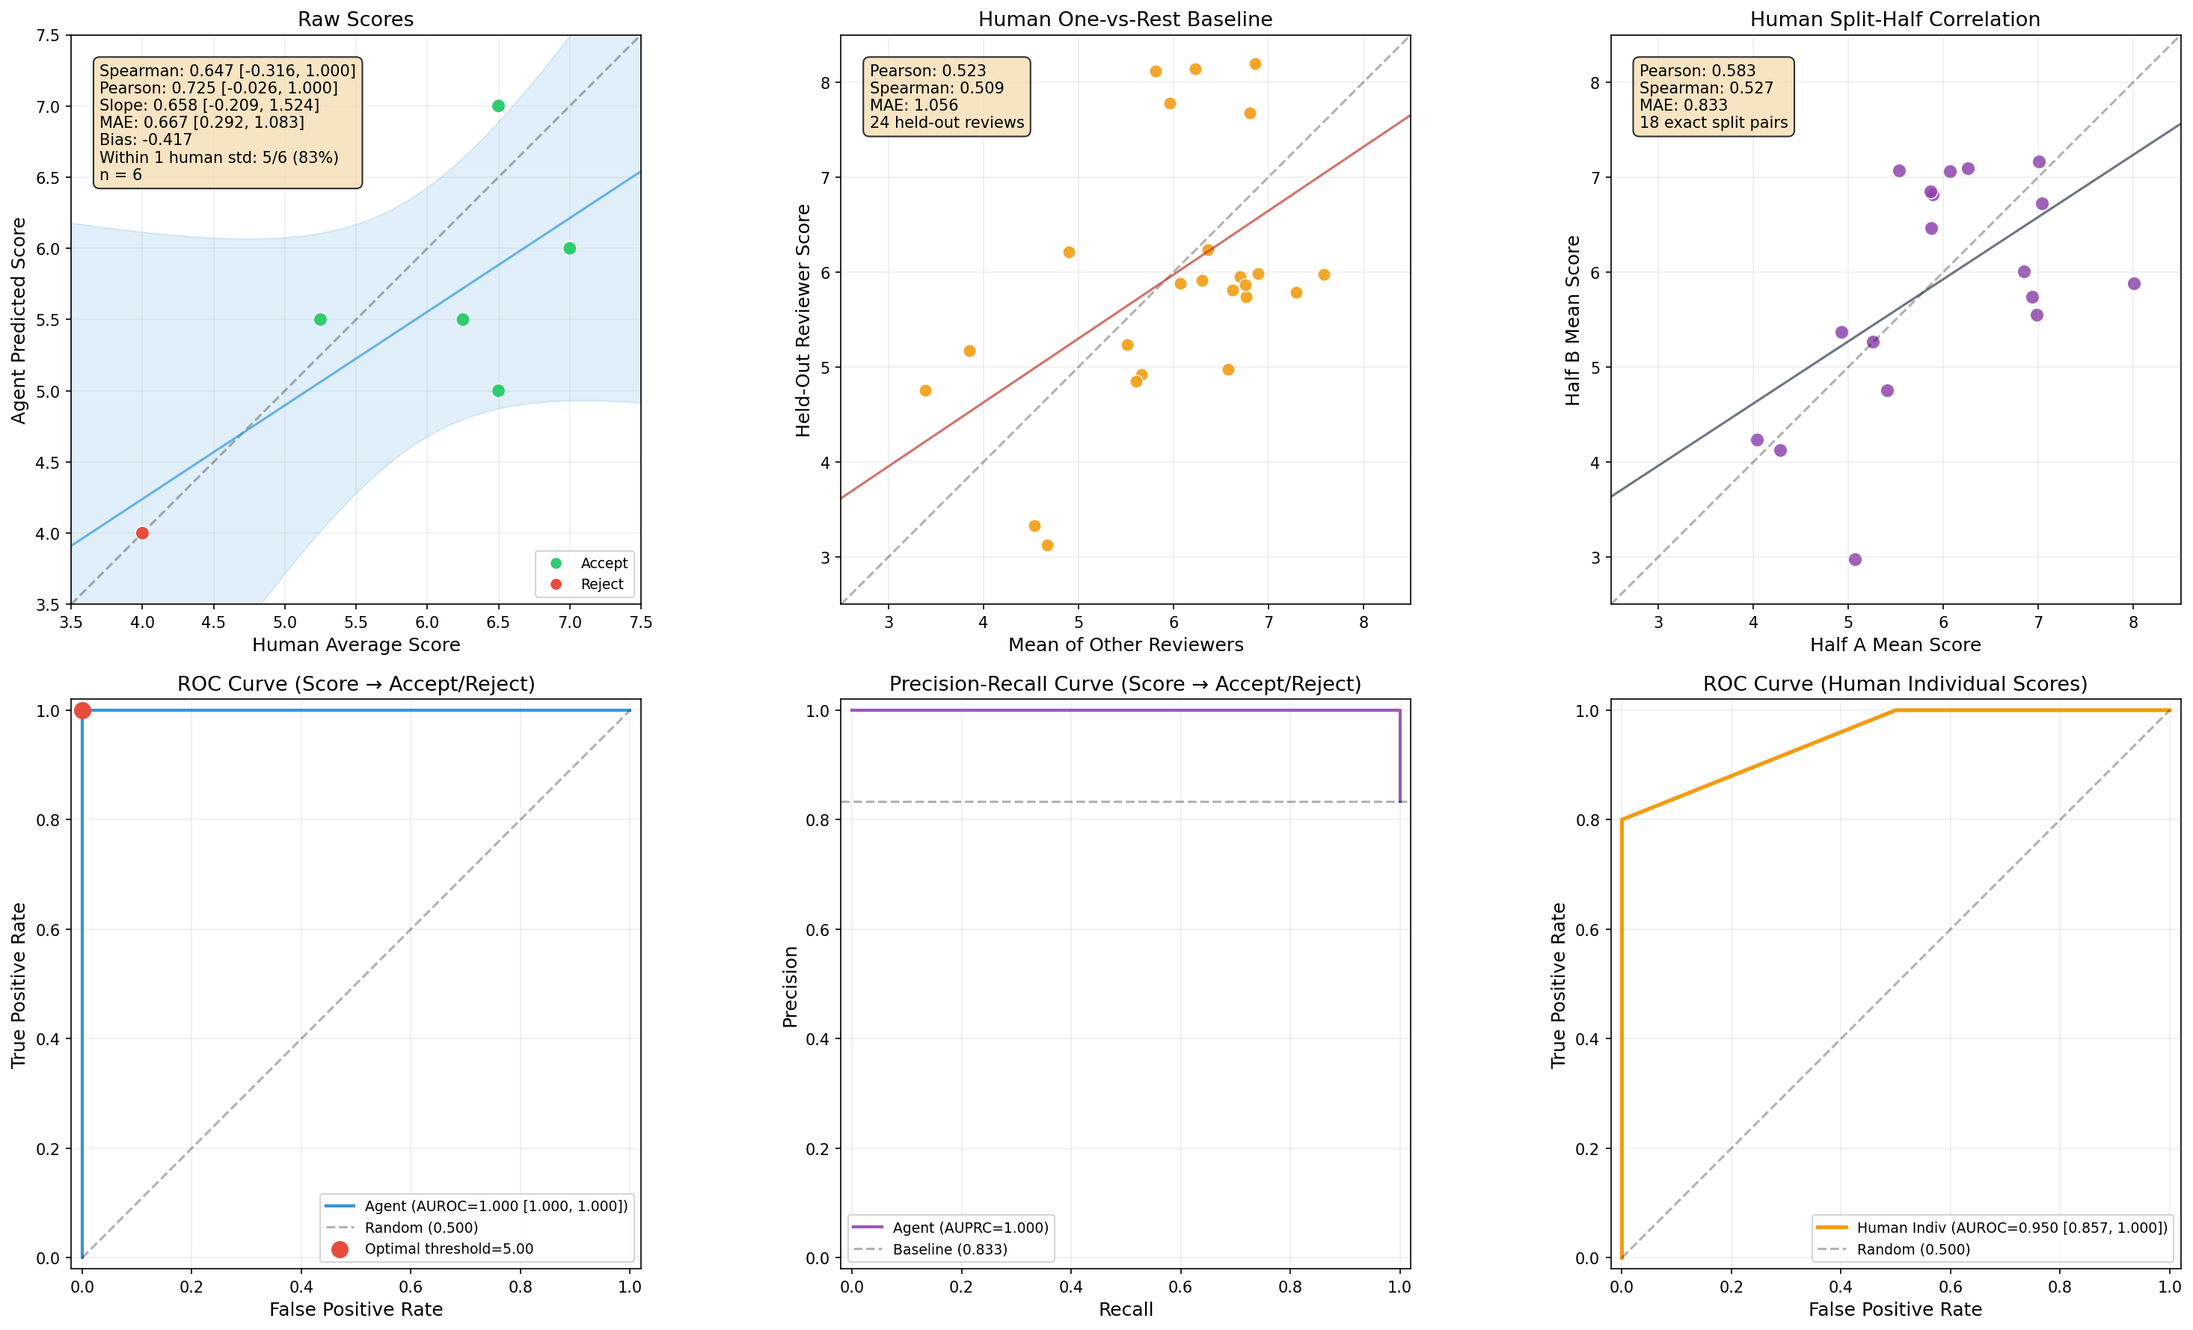
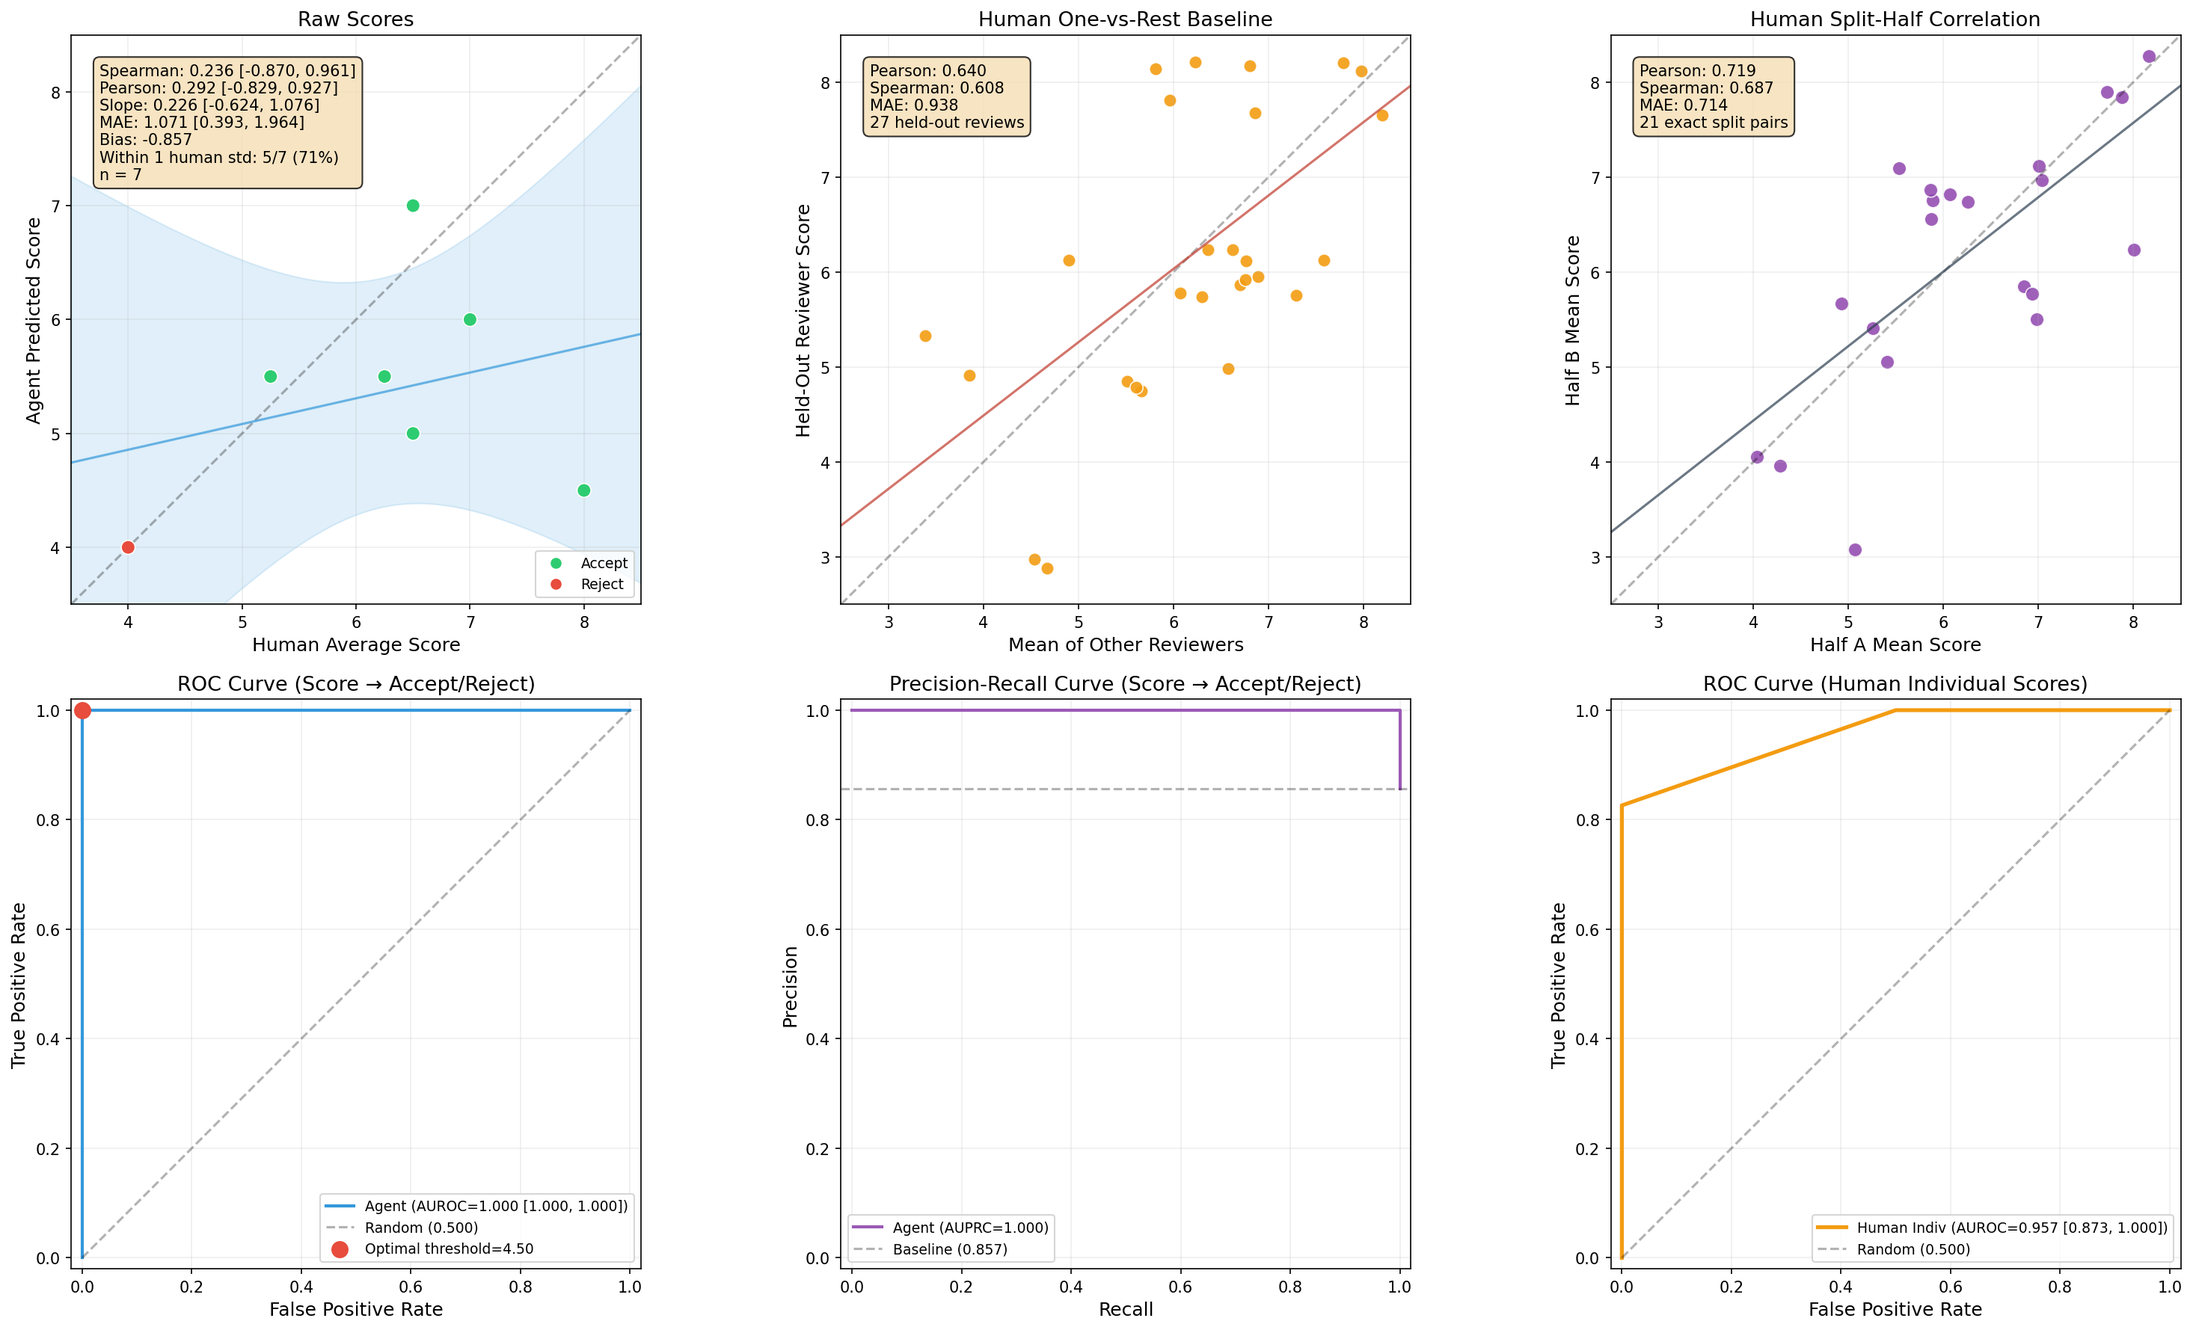
use placeholder in merger.md instead of fragile string replace
Replace hardcoded paper-access sentence with {{PAPER_ACCESS_INSTRUCTION}}
placeholder; load_prompts fills it with the injection variant, claude_merger.py
fills it with the file-tool variant.

diff --git a/new/main.py b/new/main.py
@@ -77,9 +77,14 @@ with open("prompts/timeline.md", "r") as f:
     timeline = f.read().replace("{{CURRENT_DATE}}", time.strftime("%Y-%m-%d"))
 
 
-def load_prompts(path):
+PAPER_ACCESS_INJECTION = "The full paper text is included in the user message. Use it to verify reviewer claims directly."
+PAPER_ACCESS_FILE = "The paper path is provided in the user message. Use read_file to read the paper and verify reviewer claims directly."
+
+def load_prompts(path, paper_access: str = PAPER_ACCESS_INJECTION):
     with open("prompts/" + path, "r") as f:
-        return f.read() + "\n\n" + timeline
+        content = f.read()
+    content = content.replace("{{PAPER_ACCESS_INSTRUCTION}}", paper_access)
+    return content + "\n\n" + timeline
 
 # ── Agent definitions ────────────────────────────────────────────────
 summarizer = Agent(

diff --git a/new/claude_merger.py b/new/claude_merger.py
@@ -173,9 +173,8 @@ async def run_merger_claude_sdk(model_id: str, merger_prompt: str, paper_dir: st
 
     with open("prompts/merger.md", "r") as f:
         system_prompt = f.read()
-    # Override the line that says paper is in the user message — for SDK, agent reads it via tool
     system_prompt = system_prompt.replace(
-        "The full paper text is included in the user message. Use it to verify reviewer claims directly.",
+        "{{PAPER_ACCESS_INSTRUCTION}}",
         "The paper path is provided in the user message. Use read_file to read the paper and verify reviewer claims directly.",
     )
 

diff --git a/new/bench_reviews/AAZ3vwyQ4X.md b/new/bench_reviews/AAZ3vwyQ4X.md
@@ -1,116 +1,1 @@
-Now I have enough information to write the consolidated review. Let me also quickly verify the Table 1 DRIAMS section issue more carefully by re-reading the paper section:
-
-Based on my careful reading of the paper text:
-
-**Table 1 DRIAMS section**: The paper shows:
-- Row 1: `MSPL_thr` with ARI=0.437, NMI=0.759, Precision=0.722, Recall=0.621, F1=0.667, Accuracy=0.804
-- Row 2: `MSPL_thr` (SAME label!) with ARI=0.207, NMI=0.540, Precision=0.984, Recall=0.896, F1=0.937, Accuracy=0.912
-- Row 3: `MSPL_num` with ARI=0.005, NMI=0.736...
-- Row 4: `onlyCLS_thr` with ARI=0.130...
-- Row 5: `clusCLS`...
-- Row 6: `MSPL_num` AGAIN with ARI=0.574...
-
-This is indeed a significant table presentation issue. There are two `MSPL_thr` and two `MSPL_num` entries with different results - this suggests two separate experimental conditions are being conflated or the table is poorly organized without clear labeling of what distinguishes the two versions.
-
-Now let me produce the final consolidated review:
-
----
-
-## Summary
-MSPL is a framework for learning representations of one data modality (e.g., MALDI mass spectrometry) whose pairwise distances align with the clustering structure of another, more informative but expensive modality (e.g., whole genome sequencing). It combines reconstruction, a supervised pretext classification task, and an explicit pairwise dissimilarity-matching loss. The method is evaluated on synthetic time-series data and two epidemiology applications, demonstrating that incorporating the structure loss generally improves over ablations that omit it.
-
-## Strengths
-
-- **Structure-level alignment as the framing:** Rather than aligning raw features across modalities (the dominant paradigm in multimodal learning), MSPL targets *clustering structure transfer* via pairwise dissimilarity matching. This is a genuinely distinct and well-motivated framing that is non-trivial in the epidemiology setting where modality utility gaps are asymmetric and practically significant.
-
-- **Custom SNP-threshold loss (Eqs. 15–16):** The design of the structure preservation loss to avoid overweighting large SNP distances while precisely penalizing errors near the epidemiologically relevant threshold is a thoughtful, domain-informed contribution that goes beyond naive MSE regression of pairwise distances.
-
-- **Synthetic dataset as a controlled proof-of-concept:** The Synth-TS dataset is well-designed: the external structure (parameter-space Euclidean distance) is known by construction, the pretext task is explicitly separable from the structure task, and the three dataset variants (different cluster densities) allow clean ablations. This is stronger than many application papers that rely solely on real-world benchmarks.
-
-- **Evidence that the structure loss drives gains over onlyCLS:** On all three Synth-TS variants and on DRIAMS, MSPL consistently outperforms the ablation that removes the structure loss (onlyCLS) on ARI, NMI, and cluster F1, which isolates the contribution of the dissimilarity matching term.
-
-- **Advantage over classification-based structure injection in sparse/high-diversity regimes:** On Synth-TS(10,20) and Synth-TS(16,10), MSPL outperforms clusCLS (which uses ground-truth cluster labels as classification targets) across all metrics, suggesting the dissimilarity-based approach is more robust when per-cluster training data is limited. This is an practically important regime for epidemiology.
-
-## Weaknesses
-
-### Fatal
-*None that invalidate the core mechanism, but the following major issues substantially undermine the real-world claims.*
-
-### Major
-
-- **Table 1 for DRIAMS is internally inconsistent and cannot be reliably interpreted.** The DRIAMS block contains two `MSPL_thr` rows and two `MSPL_num` rows with very different numbers and no label distinguishing what differs between them. This is not a minor formatting artifact: the paper's main real-data positive results rest on DRIAMS, and the reader cannot determine which MSPL variant achieves which result. The section "Recovering AMR clusters in DRIAMS" in the text refers to MSPL outperforming baselines on precision/recall/F1, but it is impossible to tell which row(s) in the table this corresponds to. This needs to be resolved before conclusions can be drawn.
-
-- **The real-world "cluster recovery" claim is overstated relative to the actual metrics.** On the proprietary WGS dataset, ARI ≈ 0 across all methods, MSPL_thr has NMI of 0.137 (versus onlyCLS_thr's 0.897), and the method collapses 544 ground-truth clusters to only 38 predicted clusters (Figure 6). The paper frames this as "effectively recovering WGS clusters," but standard clustering metrics contradict this framing. The claimed advantage rests entirely on the custom cluster F1 metric under a thresholded clustering scheme that achieves high recall by merging many true clusters. This may be appropriate for coarse outbreak *screening*, but it is not the same as cluster recovery, and the paper conflates the two throughout.
-
-- **Threshold tuning on training data undermines the robustness of the main result.** The primary positive real-data results use distance thresholds chosen to maximize the authors' custom cluster F1 on training data (Section 5). This means the method is validated under oracle-like conditions for the single most favorable threshold. No sensitivity analysis across thresholds is provided. In a practical clinical deployment where the threshold is unknown, this selection process cannot be replicated, which directly contradicts the paper's claim that MSPL "increases feasibility of learning."
-
-- **Baseline scope is narrow for a paper making broad representational claims.** Comparisons are limited to onlyCLS (an internal ablation) and clusCLS (a classification-based variant). There are no comparisons against metric-learning baselines, contrastive learning with external neighborhood supervision (e.g., triplet loss on SNP distances), or other pairwise-constraint-based embedding methods that directly optimize distance structure. Without these, it is unclear whether the gains are specific to MSPL's formulation or would arise from any method that leverages pairwise distances.
-
-### Minor
-
-- **Species-level observations (Observations 2 and 3) are descriptive, not demonstrated statistically.** The claims that "MSPL thrives in diverse data subsets" and "MSPL is robust to the difficulty of its pretext task" are based solely on visual inspection of scatterplots (Figure 5). No correlation coefficients, regression tests, or statistical tests are reported. These remain qualitative observations, and the "lift" ratio metric can be unstable when the denominator (baseline F1) is very low.
-
-- **clusCLS data leakage ambiguity.** clusCLS derives cluster labels from the full dataset's external dissimilarity matrix, then uses those as supervised targets. The paper does not clearly state whether validation samples' cluster labels are available at training time under the cross-validation protocol. If they are, clusCLS benefits from information not available in the MSPL formulation, making the comparison inconsistent. If they are not, this should be explicitly stated.
-
-- **The abstract and introduction overclaim practical substitution.** Phrases like "substantially reduce data acquisition cost," "increase feasibility of learning," and MALDI as a "viable substitute for WGS" are not supported by any cost analysis, prospective outbreak-detection evaluation, or decision analysis. The paper demonstrates some alignment of MALDI representations with WGS-derived structure; the leap to practical substitution is asserted, not shown.
-
-### Trivial
-
-- The cluster F1 metric is reasonable for tracking precision/recall tradeoffs in over/under-segmentation, but the paper would benefit from a brief worked example or figure showing why it diverges from ARI/NMI on the proprietary dataset, rather than simply citing that ARI/NMI are "inadequate" for imbalanced distributions.
-
-## Nice-to-Haves
-
-- **Direct evaluation of distance preservation:** Since MSPL explicitly optimizes pairwise distance matching, reporting the Spearman or Pearson correlation between learned MALDI distances and external WGS/AMR distances (or neighborhood preservation) would directly verify that the structural objective achieves what it intends, independent of downstream clustering quality.
-
-- **Ablations on λ₁:** The structure-matching weight is a key hyperparameter; showing that results are non-trivially sensitive to its value would validate the objective's importance and help practitioners set it.
-
-- **Semi-supervised/partial pairing extension:** The most natural practical scenario for cost reduction is one where only a fraction of samples have the expensive modality. Testing MSPL when the dissimilarity matrix is available for only a training subset would directly support the cost-reduction motivation.
-
-- **Distance-matrix heatmaps:** Showing the block structure of ground-truth SNP/AMR distance matrices alongside learned MALDI feature distance matrices (sorted by cluster) would make the structural alignment visually verifiable and strengthen the paper's qualitative case.
-
-- **Per-cluster case studies showing both successes and failures:** The bipartite graph in Figure 3 is for one favorable species; showing a failure case alongside would give a balanced picture of the method's limitations.
-
-## Removed Points
-
-*These points are flagged to be removed; treat them with caution.*
-
-- **Reproducibility concern about undisclosed hyperparameters (λ₀, λ₁, batch size, architecture dimensions):** While the paper does not provide full training details in the main text, this is standard for ICLR submissions that rely on appendices. The high-level method is reproducible. Removed per the reproducibility soft rule.
-
-- **Criticism of proprietary dataset unavailability:** The paper explicitly states it is proprietary; this reflects real-world data constraints, not a paper problem. The DRIAMS public dataset provides a replicable counterpart.
-
-- **The claim that MSPL cannot be compared to "all multimodal alignment approaches" because it uses different training paradigms:** The paper clearly scopes its contribution as structure-level rather than feature-level alignment and does not claim to outperform feature-level methods on feature-level tasks. Scope-creep criticism removed.
-
-## Novel Insights
-
-The most genuinely novel insight in the paper is the framing of multimodal learning as *structure-level alignment* rather than feature-level alignment, and the observation that dissimilarity-based supervision (soft pairwise distance matching) can outperform hard cluster-label supervision (clusCLS) in sparse-data regimes. This is an underexplored comparison: the ML community typically compares contrastive or reconstruction methods against each other, but the direct head-to-head between dissimilarity regression and cluster-label classification reveals that the former is more robust when training data per cluster is limited—a practical advantage in the long-tail epidemiology setting. The custom SNP threshold loss (Eqs. 15–16) that asymmetrically penalizes distances is also a useful contribution for practitioners in other biological distance domains.
-
-## Suggestions
-
-1. **Fix Table 1 for DRIAMS immediately.** Clearly label what experimental condition each row represents (e.g., different DRIAMS subsets, different preprocessing variants, different clustering protocols). Without this, the DRIAMS results are uninterpretable.
-
-2. **Reframe the proprietary dataset results honestly.** Describe MSPL_thr as enabling high-recall coarse grouping for outbreak *screening*, not cluster recovery. Show a precision-recall tradeoff curve across thresholds rather than a single tuned-threshold result.
-
-3. **Add at least one external pairwise-supervision baseline** (triplet/Siamese loss trained directly on SNP or AMR distances) to demonstrate that the autoencoder+pretext structure of MSPL, not just any pairwise supervision, is responsible for the gains.
-
-4. **Report threshold sensitivity.** Show cluster F1 as a function of threshold for both MSPL and baselines so readers can assess whether MSPL's advantage is confined to the tuned threshold or holds broadly.
-
-5. **Clarify clusCLS label construction under cross-validation.** Explicitly state whether cluster labels derived from the full dataset are visible to the training loop for validation-fold samples.
-
----
-
-## Score and Decision
-
-**Calibration:**
-
-- Papers with similarly mixed results (strong synthetic/proof-of-concept but weak/ambiguous real-data performance, narrow baselines) and partially overstated claims in the epidemiology/bioinformatics domain cluster around 4–5 at ICLR (see: RwwM7pKGWv, scores 3/5/3/5; NvQ4kzcRSL scores 3/3/3/5/5; e8c7XDRJcg scores 3/3/5/5).
-
-- The paper has more substance than typical 3-level rejects: the framework is novel in framing, the synthetic experiments are clean, the epidemiology application is compelling, and there is a thoughtful domain-specific technical contribution (SNP threshold loss). This puts it above pure rejects.
-
-- The Table 1 inconsistency in the DRIAMS block is a genuine evidential problem (not a reviewer fabrication), as are the near-zero ARI/low NMI on the proprietary dataset and the threshold-tuning concern. The overclaiming in the abstract/introduction is real. These together prevent a borderline accept.
-
-- The paper is closer to the 5 range (marginally below acceptance): the core idea is interesting, the synthetic validation is solid, but the real-world evidence is too ambiguous and the evaluation protocol too favorable to the authors' metric to justify acceptance at ICLR standards.
-
-**Final score: 4.5** (between borderline reject and marginally below acceptance, reflecting a paper with a genuinely interesting idea but significant evidential and presentation problems that currently prevent confident acceptance).
-
-MY FINAL SCORE: <pineapple>4.5</pineapple>
-MY FINAL DECISION: <orange>Reject</orange>
+There's an issue with the selected model (claude-sonnet-4.6). It may not exist or you may not have access to it. Run --model to pick a different model.

diff --git a/new/prompts/merger.md b/new/prompts/merger.md
@@ -5,7 +5,7 @@ Your job is to synthesize these into ONE authoritative final review.
 Be honest and unsparing about real problems, but do not manufacture or inflate weaknesses.
 It is for ICLR — standards are high, but a strong paper should read as strong.
 
-The full paper text is included in the user message. Use it to verify reviewer claims directly.
+{{PAPER_ACCESS_INSTRUCTION}}
 
 Before including any weakness, verify: (1) does the paper actually have this problem, or did the reviewer
 misread a section? (2) if the paper partially addresses this concern, is the addressal unreasonable or is
